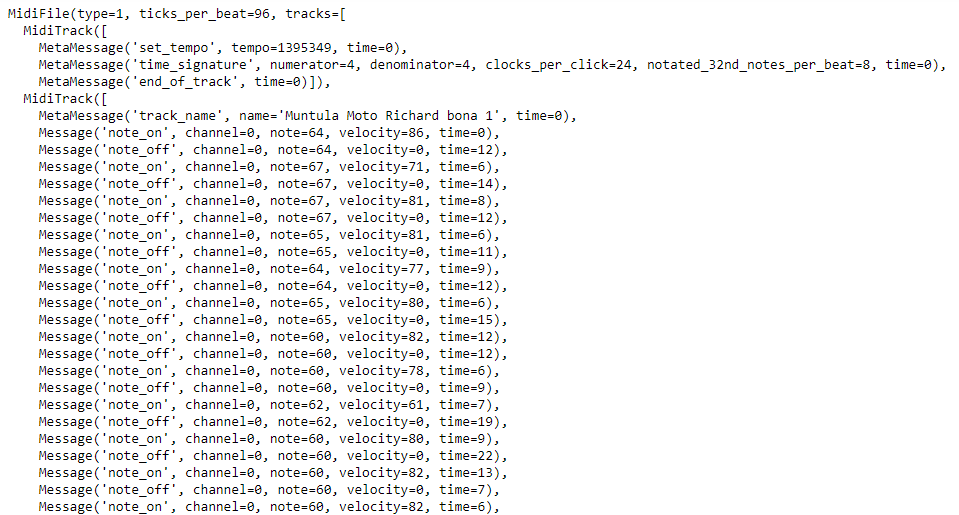
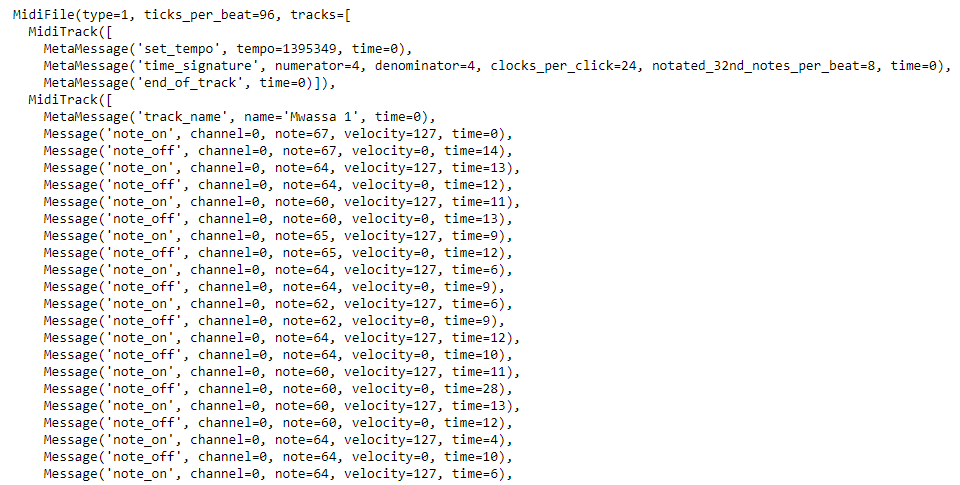
Melodic phrase project_update

Changed region(s): [[0.0, 0.0, 0.9979, 1.0], [0.5443, 0.2165, 0.6048, 0.2474]]

diff --git a/_posts/2023-07-09-Melodic_Phrases.md b/_posts/2023-07-09-Melodic_Phrases.md
@@ -10,9 +10,11 @@ permalink: "/music/mel_phrases/"
         Recently, I made a video about makossa music, a popular genre in Cameroon. The video is in French, and I have included a personal aspect to it, given my upbringing in the Cameroonian diaspora in Montreal. My parents immigrated from Cameroon in the mid-80s and early 90s, during the peak of the "new wave makossa." They didn't follow the subsequent trends that emerged from the country after the decline of makossa. Growing up in the early 2000s, my sister and I have fond memories of listening to old Dina Bell CDs and "Testament du Makossa" by the amazing bass player, Aladji Toure.
         <br>
         </p>
-        <iframe width="300" height="160"
-        src="https://www.youtube.com/embed/wCJ50xkwLLs">
+        <div class="w3-main w3-center" >
+        <iframe width="640" height="360"
+        src="https://www.youtube.com/embed/6-NzwfM6ZtI">
         </iframe>
+        </div>
         <p class = "justify">
         In the video, I delve into the genre's history and also discuss a recurring melodic phrase that I've noticed in many makossa songs. However, in this post, I'd like to focus more on the process behind creating the musical graph that you can see at the end of the video.
         <br>
@@ -20,11 +22,13 @@ permalink: "/music/mel_phrases/"
         The first column represents the note as a number, the second column indicates the relative start time of the note, and the third column represents the duration of the note. 
         </p>
         <div class="w3-main w3-center">
-            <img src="/portfolio/assets/img/mwassa_Vis_pic.png" width="50%" height="50%">
+            <img src="/portfolio/assets/img/mwassa_Vis_pic.png" width="80%" height="80%">
             <figcaption>Notes sequence in FL studio </figcaption>
-            <img src="/portfolio/assets/img/midi_picture.png" width="50%" height="50%">
+            <br>
+            <img src="/portfolio/assets/img/midi_picture.png" width="80%" height="80%">
             <figcaption>Imported notes in Jupyter notebook using mido</figcaption>
-            <img src="/portfolio/assets/img/midi_picture_2.png" width="50%" height="50%">
+            <br>
+            <img src="/portfolio/assets/img/midi_picture_2.png" width="30%" height="30%">
             <figcaption>Final 2D array of notes </figcaption>
         </div>
         <p class = "justify">
@@ -33,6 +37,7 @@ permalink: "/music/mel_phrases/"
         <div class="w3-main w3-center">
             <img src="/portfolio/assets/img/Mwassa_Vis_Graph.png" width="50%" height="50%">
             <figcaption>Graph linking the whole phrase </figcaption>
+            <br>
             <img src="/portfolio/assets/img/Mwassa_Vis_Graph_2.png" width="50%" height="50%">
             <figcaption>The two segments superposed</figcaption>
         </div>
